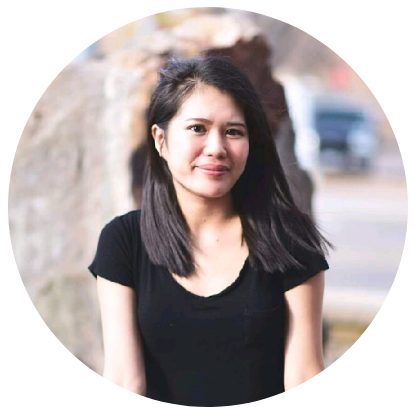
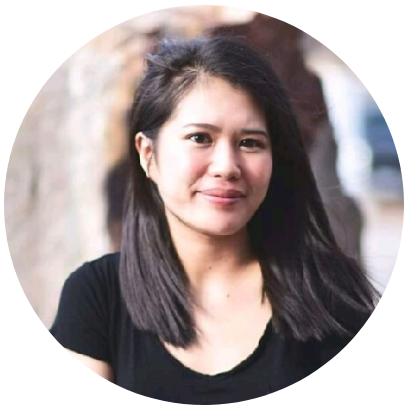
updated the about coffee page

diff --git a/index.html b/index.html
@@ -22,15 +22,24 @@
         <img class="fontpageimg" src="./coffee.jpg">
     </main>
     
+    <h1> ABOUT THE OWNERS</h1>
+
     <div class="about_section">
-         <img class ="miwha" src="./1.png">
-        <p class ="miwha_about"> 
-            Sit amet nisl purus in mollis nunc. Justo eget magna fermentum iaculis eu non diam phasellus vestibulum. Nulla aliquet enim tortor at auctor urna. Elementum integer enim neque volutpat ac tincidunt vitae semper quis. Purus gravida quis blandit turpis cursus. Risus feugiat in ante metus dictum. Purus sit amet luctus venenatis lectus magna fringilla urna. Sed felis eget velit aliquet. Ornare arcu odio ut sem nulla pharetra diam sit amet. Convallis convallis tellus id interdum velit laoreet id. Aliquam sem et tortor consequat. Nec feugiat nisl pretium fusce.
+        <section class="miwha_container">
+         <img class ="miwha_img" src="./1.png">
+         <h2> Alice</h2>
+        <p class="miwha_bio"> 
+            Sit amet nisl purus in mollis nunc. Justo eget magna fermentum iaculis eu non diam phasellus vestibulum. Nulla aliquet enim tortor at auctor urna. Elementum integer enim neque volutpat ac tincidunt vitae semper quis. Purus gravida quis blandit turpis cursus. Risus feugiat in ante metus dictum. Purus sit amet luctus venenatis lectus magna fringilla urna. Sed felis eget velit aliquet. Ornare arcu odio ut sem nulla pharetra diam sit amet. Convallis convallis tellus id interdum velit laoreet id. Aliquam sem et tortor es yetlat.
         </p>
-        <p class="alice_about"> Sit amet nisl purus in mollis nunc. Justo eget magna fermentum iaculis eu non diam phasellus vestibulum. Nulla aliquet enim tortor at auctor urna. Elementum integer enim neque volutpat ac tincidunt vitae semper quis. Purus gravida quis blandit turpis cursus. Risus feugiat in ante metus dictum. Purus sit amet luctus venenatis lectus magna fringilla urna. Sed felis eget velit aliquet. Ornare arcu odio ut sem nulla pharetra diam sit amet. Convallis convallis tellus id interdum velit laoreet id. Aliquam sem et tortor consequat. Nec feugiat nisl pretium fusce.
+    </section>
+    <section class="alice_conatiner">
+        <img class ="alice_img" src="./4.png">
+        <h2> Miwha</h2>
+        <p class="alice_bio"> Sit amet nisl purus in mollis nunc. Justo eget magna fermentum iaculis eu non diam phasellus vestibulum. Nulla aliquet enim tortor at auctor urna. Elementum integer enim neque volutpat ac tincidunt vitae semper quis. Purus gravida quis blandit turpis cursus. Risus feugiat in ante metus dictum. Purus sit amet luctus venenatis lectus magna fringilla urna. Sed felis eget velit aliquet. Ornare arcu odio ut sem nulla pharetra diam sit amet. Convallis convallis tellus id interdum velit laoreet id. Aliquam sem et tortor es yetlat.
         </p>
-        <img class ="alice" src="./4.png">
+    </section>
     </div>
+
 
     <script src="app.js"></script>
 </body>

diff --git a/about_coffee.css b/about_coffee.css
@@ -1,10 +1,5 @@
 @import url('https://fonts.googleapis.com/css?family=Raleway&display=swap');
 
-/* http://meyerweb.com/eric/tools/css/reset/ 
-   v2.0 | 20110126
-   License: none (public domain)
-*/
-
 html, body, div, span, applet, object, iframe,
 h1, h2, h3, h4, h5, h6, p, blockquote, pre,
 a, abbr, acronym, address, big, cite, code,
@@ -18,7 +13,7 @@ article, aside, canvas, details, embed,
 figure, figcaption, footer, header, hgroup, 
 menu, nav, output, ruby, section, summary,
 time, mark, audio, video {
-	padding: 0;
+	margin: 0;
 	border: 0;
 	font-size: 100%;
 	font: inherit;
@@ -49,31 +44,111 @@ table {
 }
 
 
-* {
-	font-family: 'Raleway', sans-serif;  
-	box-sizing: border-box;
-}
-
 body {
-	font-family: 'Raleway', sans-serif;  
-
+    font-family: 'Raleway', sans-serif; 
 }
+
 
 header {
-	height: 15em;
-	background-color:whitesmoke; 
-	justify-content: flex-end;	
-	padding-top: 2em;
+    height: 16em;
+    background-color:whitesmoke;
+    display: flex;
+    justify-content: flex-end;
+	}
+	
+main {
+	padding-bottom: 6em;
+	padding-top:4em;
 }
 
-.home {
-	width: 5.5em;
-	height: 4.4em;
-	padding-top: 2em;
-	padding-right: 3em;
+.cart {
+        width: 2.5em;
+        height: 2.5em;
+        padding-top: 2em;
+        padding-right: 1.4em;
+        
+ }
+
+ .blend {
+	 font-size: 1.7em;
+	 padding-bottom: 0.5em;
+	 padding-top: 0.5em;
+ }
+ 
+ .info {
+	 display:grid;
+	justify-content: center;
+ }
+
+ .photo {
+	display: flex;
+	justify-content: center;
+ }
+
+
+ .image {
+	 width: 30em;
+	 height: 30em;
+ }
+
+.city, .country {
+	font-size: 1.3em;
+}
+
+.flavor {
+	padding-bottom: 1em;
+}
+
+.name {
+	font-size: 2em;
+	padding-bottom: 0.5em;
 }
 
 
+ .submit_button {
+	padding: 1em;
+	width: 20em;
+	font-family: 'Raleway', sans-serif;
+
+ }
+
+
+
+
+h1{
+	font-size: 50px;
+	color: black;
+	text-transform: uppercase;
+	font-weight: normal;
+	line-height: 1;
+	padding-right: 0.5em;
+	padding-top:0.7em;
+  
+  }
+
+
+h4 {
+    
+    padding: 2em;
+}
+
+a { 
+    color:black; 
+    font-size: 1.1em;
+    text-decoration: none; 
+   
+    
+}
+
+
+a:hover, a:active {
+     text-decoration: none; 
+     color:grey;
+    }
+
+
+
+    
 
 
 

diff --git a/about_coffee.js b/about_coffee.js
@@ -1,20 +1,29 @@
 const params = new URLSearchParams(window.location.search)
 const id = params.get('id')
+let photo = document.querySelector('.photo')
+let info = document.querySelector('.info')
+
 
 fetch(`http://localhost:3000/coffees/${id}`)
 .then(response => response.json())
 .then(coffee => {
-    console.log(coffee)
-    console.log(coffee)
-    // const div = document.createElement('div')
-    let coffeePicture = new Image(400,400)
+    let coffeePicture = new Image
     let coffeeBlend = document.createElement('h2')
     let coffeeFlavor = document.createElement('p')
     let coffeeName = document.createElement('h2')
     let coffeeCity = document.createElement('p')
     let coffeeCountry = document.createElement('p')
     let button = document.createElement('button')
-  
+
+
+    coffeePicture.className = "image"
+    coffeeBlend.className = "blend"
+    coffeeFlavor.className = "flavor"
+    coffeeName.className = "name"
+    coffeeCity.className = "city"
+    coffeeCountry.className = "country"
+    button.className = "submit_button"
+
 
     coffeePicture.src = coffee.image
     coffeeBlend.innerText = coffee.blend.name
@@ -23,7 +32,12 @@ fetch(`http://localhost:3000/coffees/${id}`)
     coffeeCity.innerText = coffee.coffee_roaster.city
     coffeeCountry.innerText = coffee.coffee_roaster.country
     button.innerHTML = `<a href="checkout.html?id=${coffee.cart_id}">Add to Cart</a>`
-    document.body.append(coffeePicture, coffeeBlend, coffeeFlavor, coffeeName, coffeeCity, coffeeCountry,button)
+
+   
+    info.append(coffeeName, coffeeCity, coffeeCountry, coffeeBlend, coffeeFlavor,button)
+    photo.append(coffeePicture)
+   
+
 
     button.addEventListener('click', function(){
         console.log("HEllo")

diff --git a/app.css b/app.css
@@ -102,41 +102,41 @@ a:hover, a:active {
 }
 
 .about_section {
-    display: inline-flex;
-    flex-wrap: wrap;
+    display: flex;
+    flex-direction: row;
+    justify-content: center;
+    padding-bottom: 5em;
+    
 }
 
-.miwha {
-    width: 20em;
-    height: 20em;
-    padding-left: 5em;
-    padding-top: 5em; 
-    padding-right: 5em;
-}
+.miwha_container, .alice_container {
+width: 32em;
 
-.miwha_about {
-    height: 10em;
-    align-self: center;
-    padding-top: 7em;
 }
-
-.alice_about {
-    height: 10em;
-    align-self: center;
-    /* padding-top: 7em; */
-    padding-left: 30em;
+.miwha_img, .alice_img {
+    width: 18em;
+    height: 18em;
+    padding-bottom: 2em;
+    padding-left: 4em;
 }
 
 
-.alice {
-    width: 20em;
-    height: 20em;
-   
-
+.miwha_bio, .alice_bio {
+width: 30em;
 }
 
-p {
-margin: 0;
-padding: 0;;
-    width: 40em;
-}
+
+h1{
+	font-size: 40px;
+	color: black;
+	text-transform: uppercase;
+	font-weight: normal;
+	line-height: 1;
+    text-align: center;
+    padding-top: 3em;
+    padding-bottom: 3em;
+  }
+
+  h2 {
+      font-size: 3em;
+  }

diff --git a/about_coffee.html b/about_coffee.html
@@ -3,10 +3,26 @@
 <head>
     <meta charset="UTF-8">
     <title>About the Coffee</title>
-    <link rel="stylesheet" href="app.css">
+    <link rel="stylesheet" href="about_coffee.css">
 </head>
 <body>
+    <header>
+        <h1>about coffee</h1>
+            <a href="index.html">
+                <img class="cart" src="./home.png">
+            </a>
+            <a href="checkout.html">
+                <img class="cart" src="./supermarket.png">
+            </a>
 
+            <a href="coffee.html">
+                <img class="cart" src="./coffee.png">
+            </a>
+    </header>
+    <main>
+    <section class="photo"></section>
+   <section class="info"></section>
     <script src="about_coffee.js"></script>   
+    </main>
 </body>
-</html>
+</html> 
